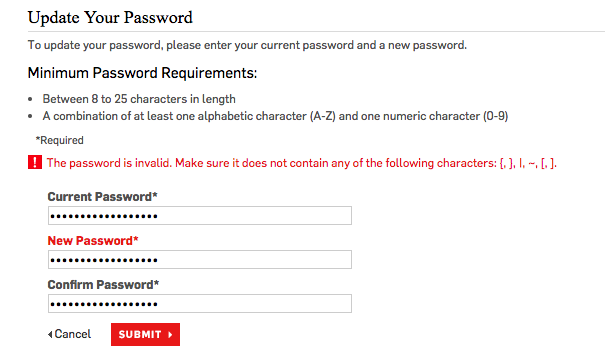
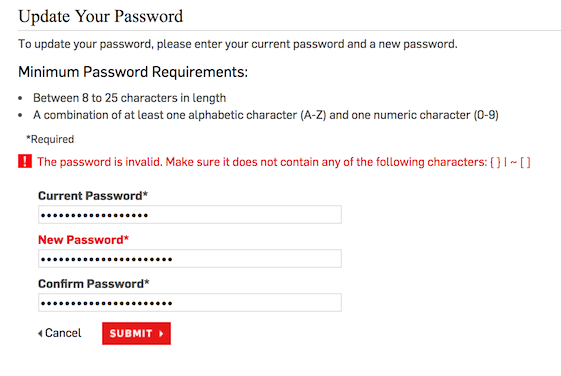
Update Williams-Sonoma
Williams-Sonoma has updated their error message per
characters are not allowed.

Closes #39.

Changed region(s): [[0.0303, 0.0, 0.9394, 0.9805]]

diff --git a/README.md b/README.md
@@ -266,7 +266,7 @@ Your password must be between 6 and 14 characters.
 ![Wells Fargo](/screenshots/wells-fargo.png "Wells Fargo")
 
 ### [Williams-Sonoma](https://secure.williams-sonoma.com/account/updatepassword.html)
-We put punctuation in the list of unusable characters to make it additionally confusing.
+25 maximum characters and disallowing some specials.
 
 ![Williams-Sonoma](/screenshots/williams-sonoma.png "Williams-Sonoma")
 
